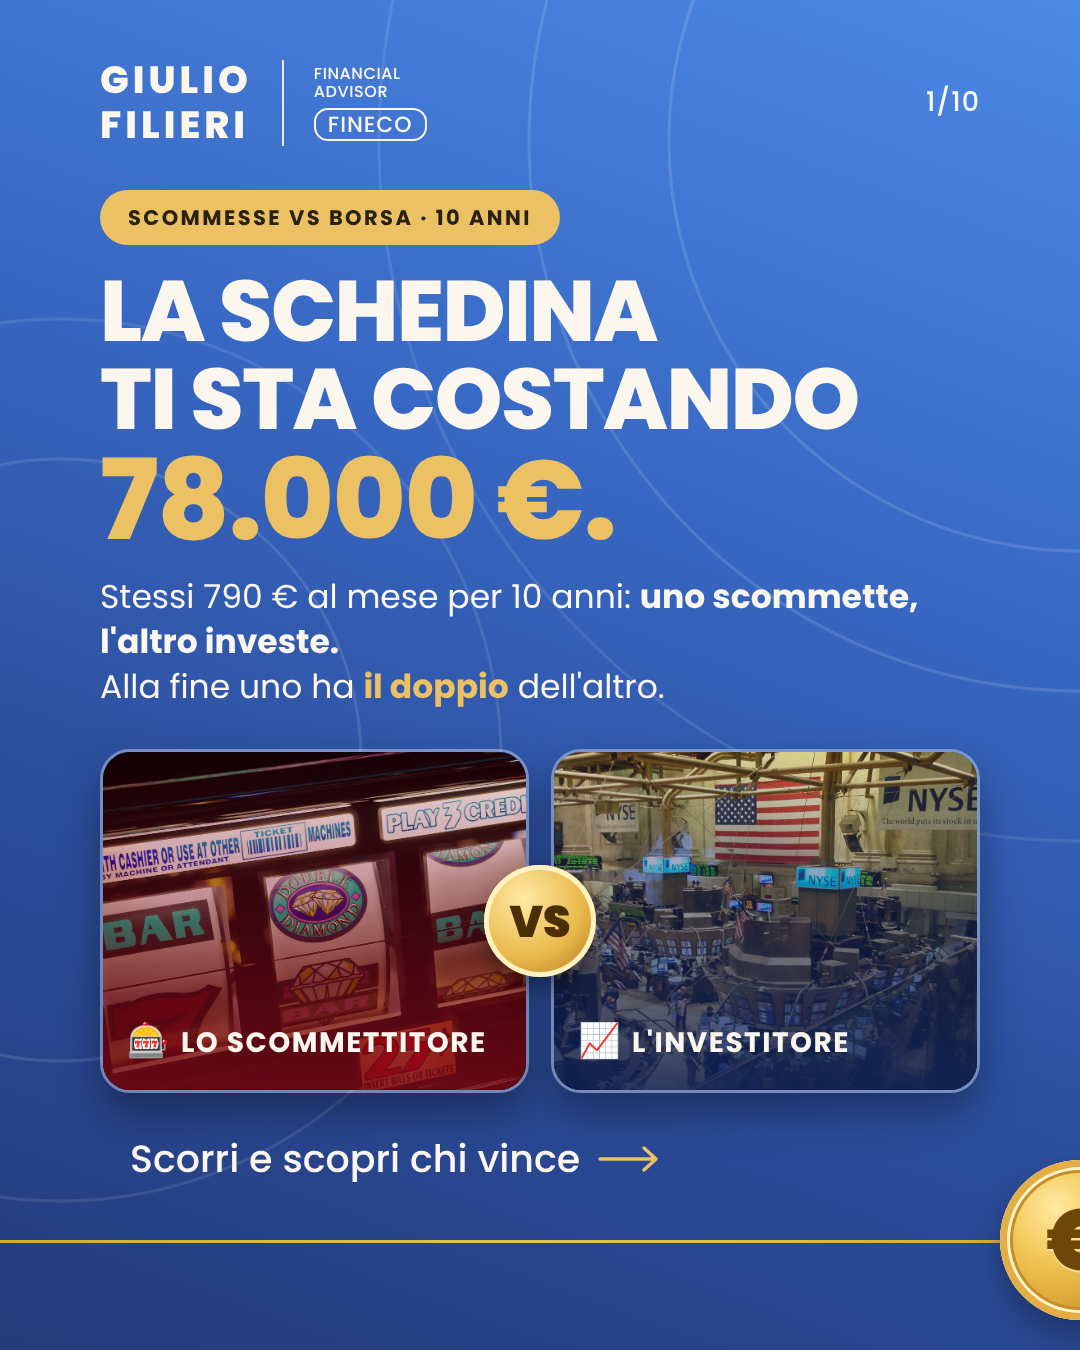
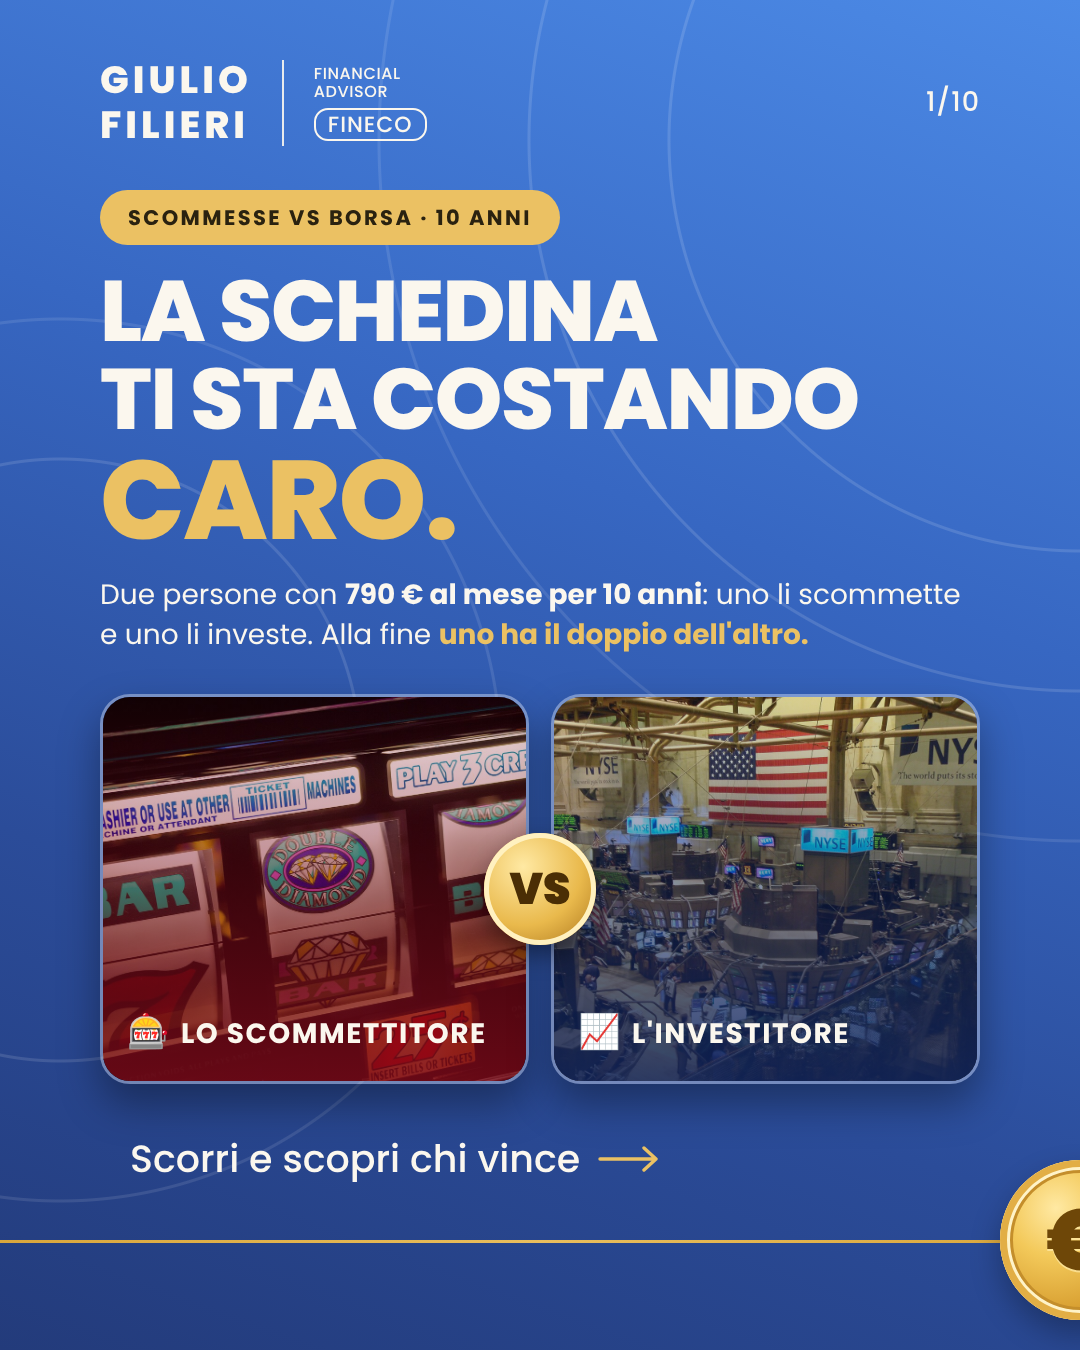
Slide 1: titolo «La schedina ti sta costando caro» e sottotitolo su due righe
Claude-Session: https://claude.ai/code/session_01VXFpsHmJ8FHR4UbCV1HPKM

Changed region(s): [[0.0917, 0.4356, 0.9167, 0.8089], [0.0917, 0.3111, 0.5806, 0.4044]]

diff --git a/caroselli/scommesse-vs-investimento/carosello.html b/caroselli/scommesse-vs-investimento/carosello.html
@@ -344,6 +344,8 @@ h1{position:absolute;left:100px;right:80px;font-weight:800;line-height:1.02;lett
 .c9{padding:24px 2px;font-size:31px} .t9b{gap:14px}
 .c9{padding:20px 2px}
 .slide#s3 .bgphoto{top:-110px}
+.s1lead{font-size:28px;line-height:1.4}
+#s1 .content .vs-wrap{height:390px}
 </style></head><body>
 
 <section class="slide blue" id="s1">
@@ -357,8 +359,8 @@ h1{position:absolute;left:100px;right:80px;font-weight:800;line-height:1.02;lett
   
   <div class="pill">SCOMMESSE VS BORSA · 10 ANNI</div>
   <div class="content">
-  <h1 class="t1">LA SCHEDINA<br>TI STA COSTANDO<br><span class="gold" style="font-size:1.3em">78.000 €.</span></h1>
-  <p class="lead">Stessi 790 € al mese per 10 anni: <b>uno scommette, l'altro investe.</b><br>Alla fine uno ha <b class="gold">il doppio</b> dell'altro.</p>
+  <h1 class="t1">LA SCHEDINA<br>TI STA COSTANDO<br><span class="gold" style="font-size:1.3em">CARO.</span></h1>
+  <p class="lead s1lead">Due persone con <b>790 € al mese per 10 anni</b>: uno li scommette e uno li investe. Alla fine <b class="gold">uno ha il doppio dell'altro.</b></p>
   <div class="vs-wrap">
     <div class="vs-card">
       <img src="img/slot.jpg" style="object-position:50% 40%">

diff --git a/caroselli/scommesse-vs-investimento/style.css b/caroselli/scommesse-vs-investimento/style.css
@@ -341,3 +341,5 @@ h1{position:absolute;left:100px;right:80px;font-weight:800;line-height:1.02;lett
 .c9{padding:24px 2px;font-size:31px} .t9b{gap:14px}
 .c9{padding:20px 2px}
 .slide#s3 .bgphoto{top:-110px}
+.s1lead{font-size:28px;line-height:1.4}
+#s1 .content .vs-wrap{height:390px}

diff --git a/caroselli/scommesse-vs-investimento/build.py b/caroselli/scommesse-vs-investimento/build.py
@@ -104,8 +104,8 @@ S = []
 # 1 — HOOK
 S.append(slide(1, "blue", f"""
   <div class="pill">SCOMMESSE VS BORSA · 10 ANNI</div>
-  <h1 class="t1" style="top:262px">LA SCHEDINA<br>TI STA COSTANDO<br><span class="gold" style="font-size:1.3em">78.000 €.</span></h1>
-  <p class="lead" style="top:600px">Stessi {num(MESE)} € al mese per 10 anni: <b>uno scommette, l'altro investe.</b><br>Alla fine uno ha <b class="gold">il doppio</b> dell'altro.</p>
+  <h1 class="t1" style="top:262px">LA SCHEDINA<br>TI STA COSTANDO<br><span class="gold" style="font-size:1.3em">CARO.</span></h1>
+  <p class="lead s1lead" style="top:600px">Due persone con <b>{num(MESE)} € al mese per 10 anni</b>: uno li scommette e uno li investe. Alla fine <b class="gold">uno ha il doppio dell'altro.</b></p>
   <div class="vs-wrap">
     <div class="vs-card">
       <img src="img/slot.jpg" style="object-position:50% 40%">
